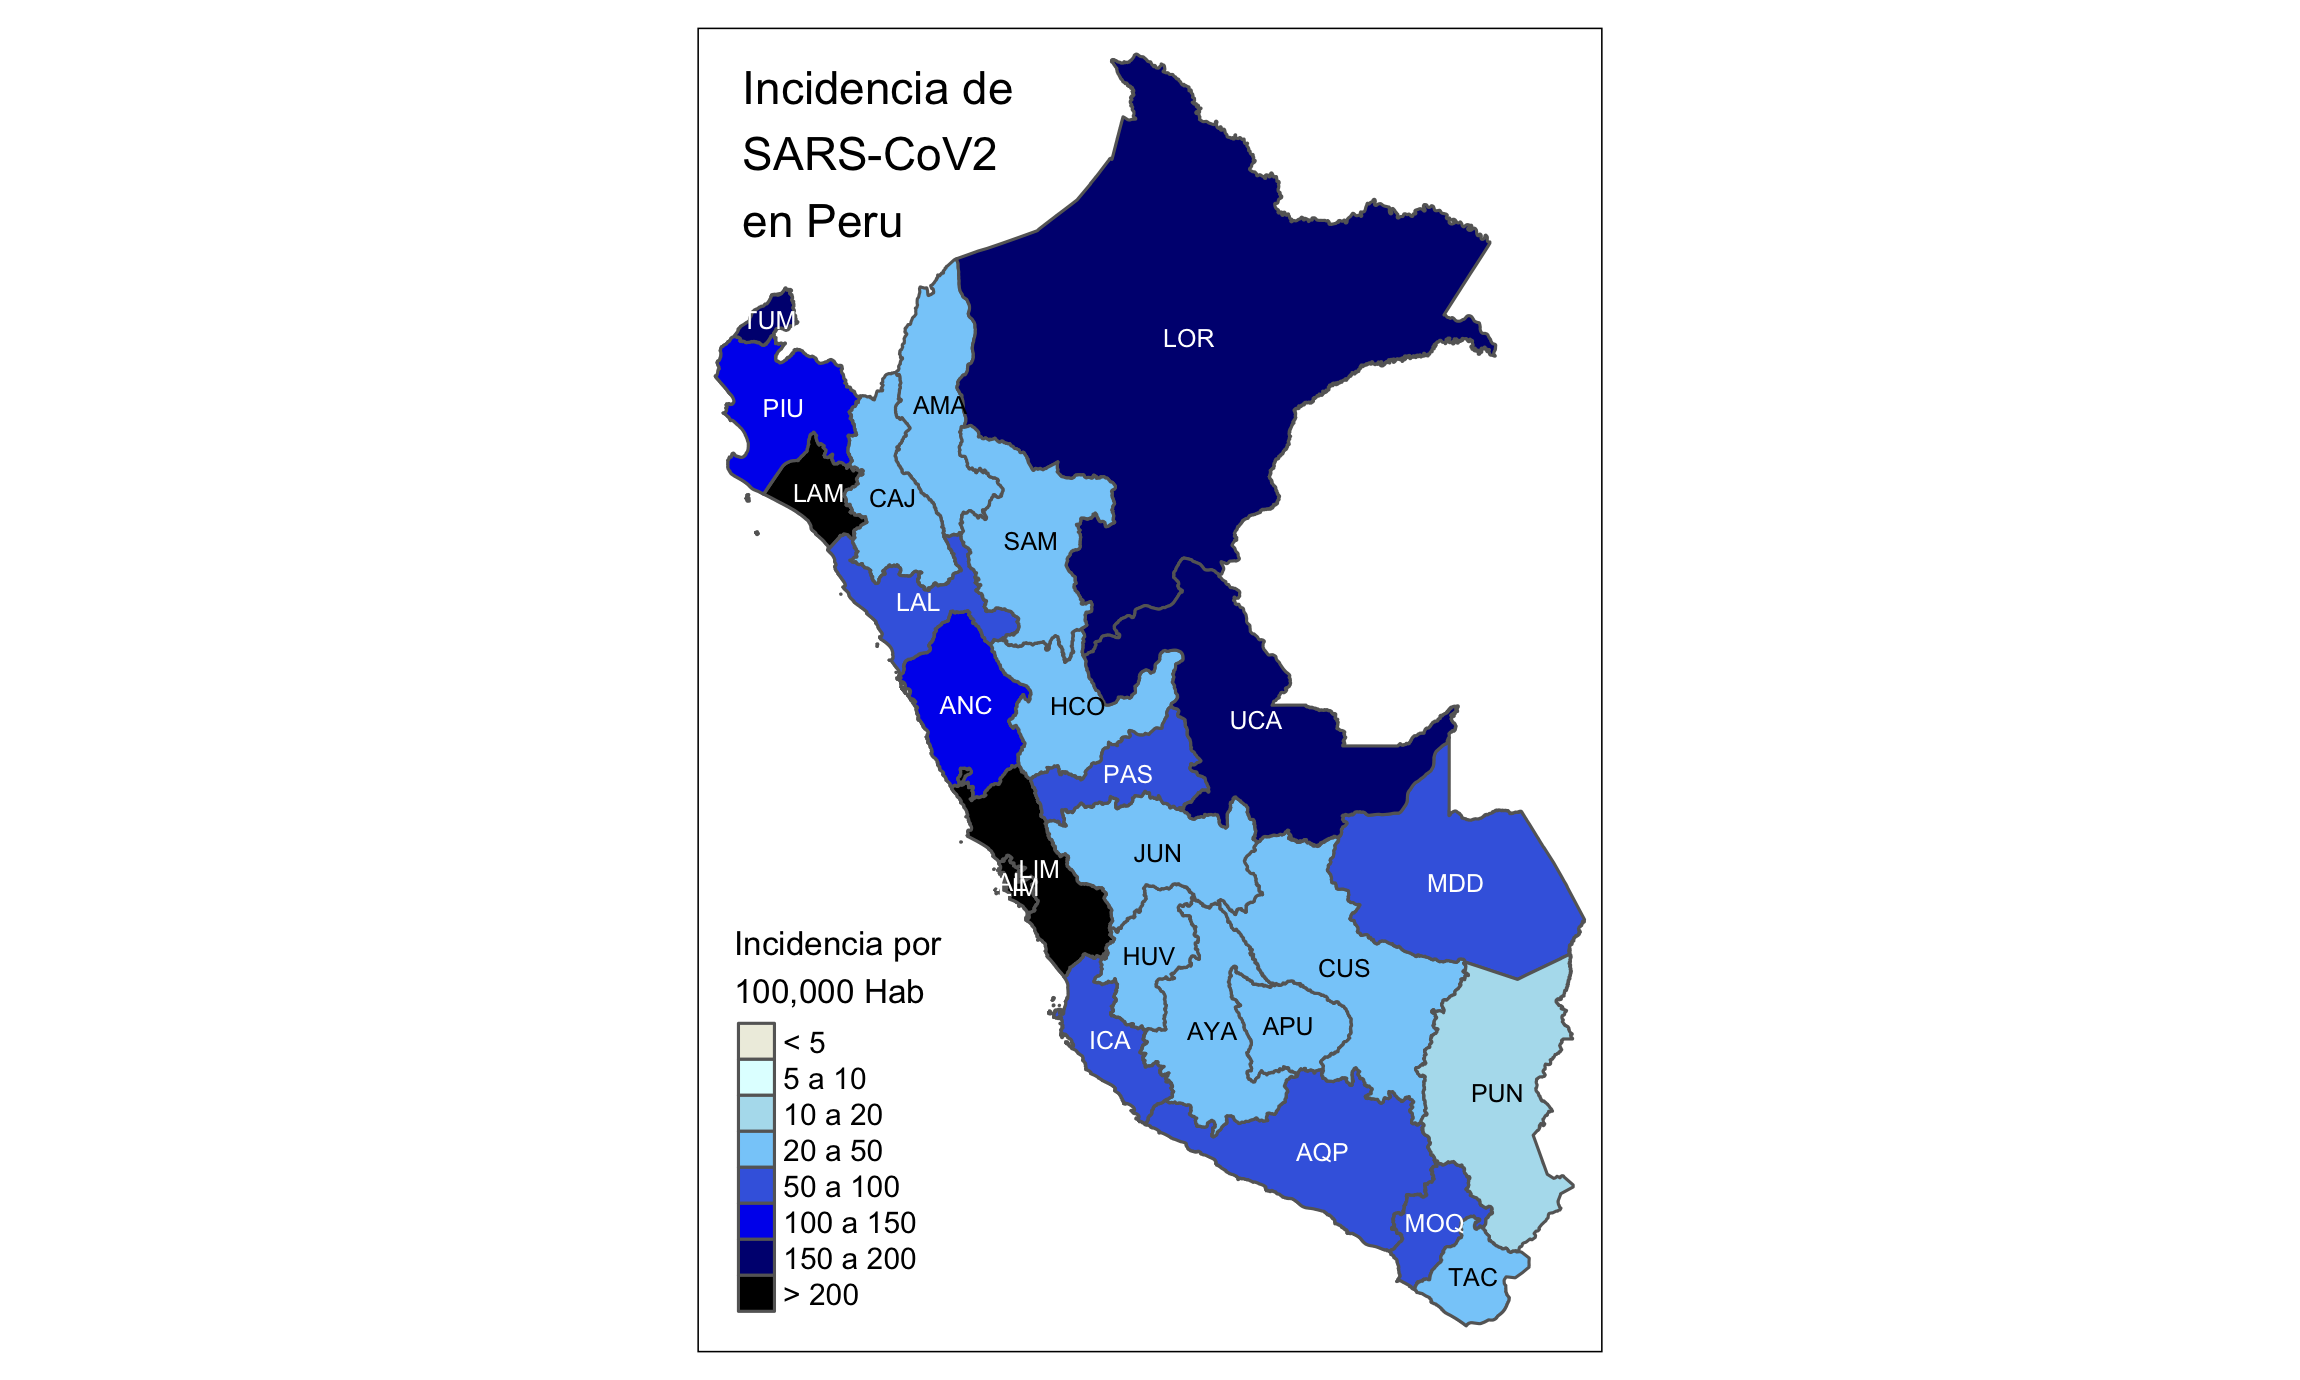
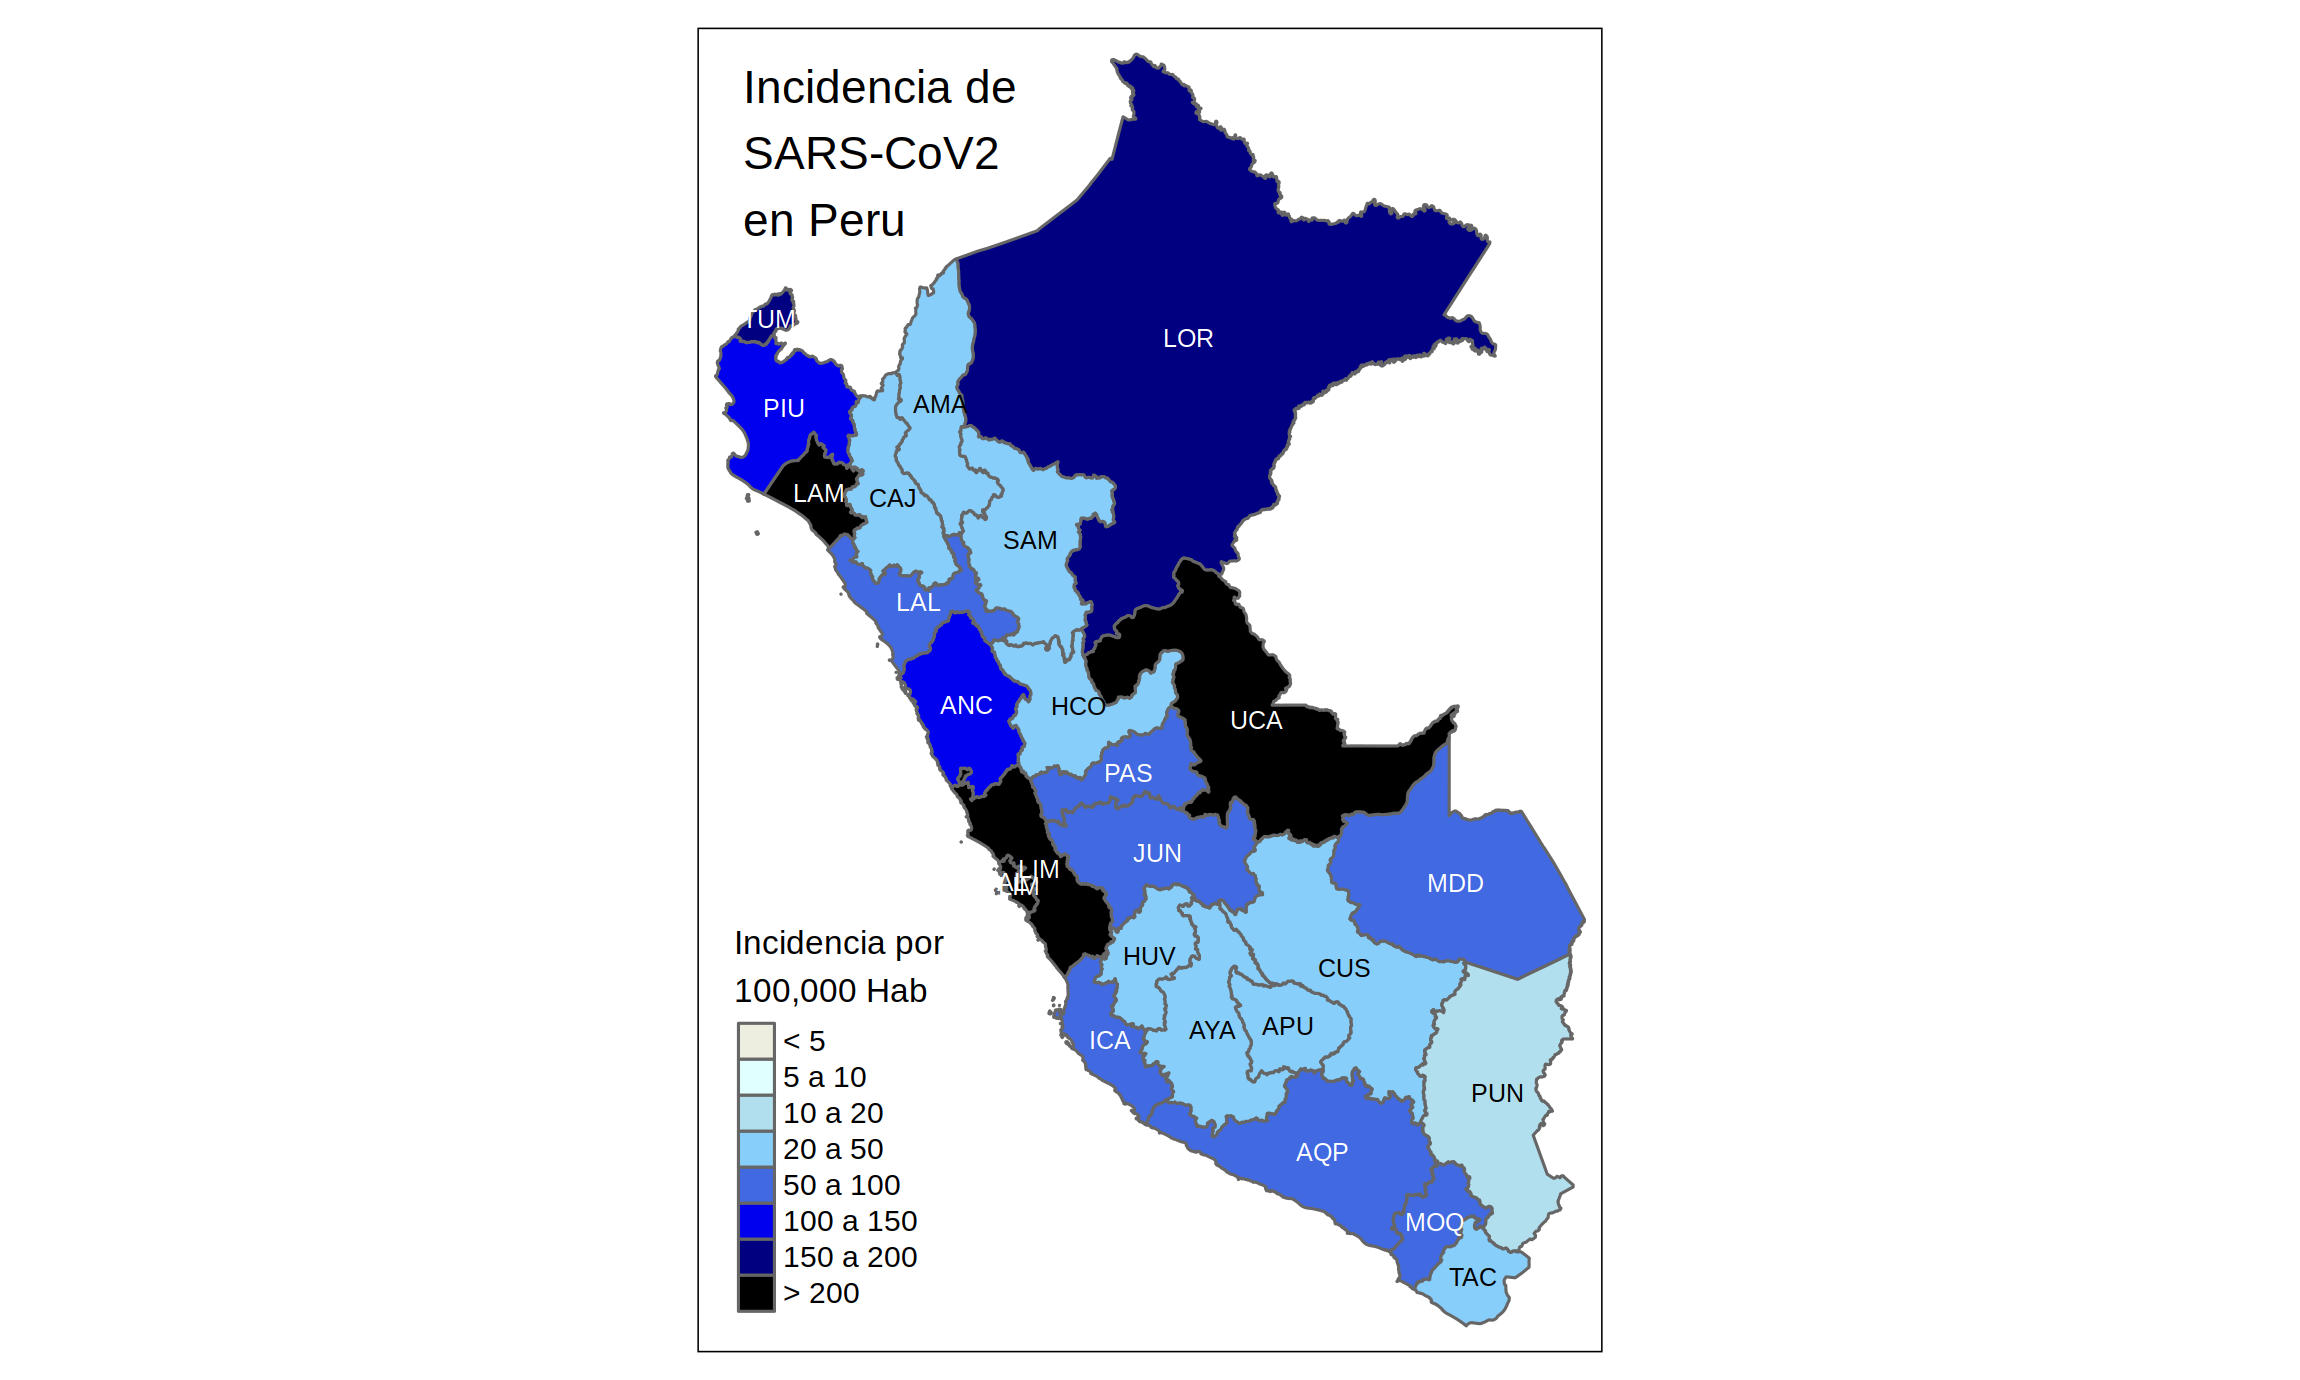
graficos actualizado al 2020-05-08

diff --git a/proyectos/covid19/_posts/2020-03-30-datos-covid-peru.md b/proyectos/covid19/_posts/2020-03-30-datos-covid-peru.md
@@ -67,7 +67,7 @@ github: https://github.com/ce4-peru/covid19
             };
             //--------------------------------------->
             //Aqui se tiene que actualizar la fecha-->
-            actualizarFecha('07 de mayo 18:05 hora de Perú');
+            actualizarFecha('08 de mayo 23:00 hora de Perú');
             //--------------------------------------->
         </script>  
 </body>		
